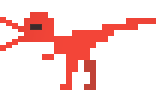
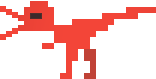
Obstacles changed

diff --git a/RaptorRace/RaptorRace/MovingObstacle.m b/RaptorRace/RaptorRace/MovingObstacle.m
@@ -8,21 +8,24 @@
 
 #import "MovingObstacle.h"
 
-@implementation MovingObstacle
+@implementation MovingObstacle{
+    NSArray *objectAnimatedFrames;
+}
 
-- (void) setPhysicsAbilitiesOfObstacle
-{
+- (void)setPhysicsAbilitiesOfObstacle{
+    [NSException raise:NSInternalInconsistencyException
+                format:@"You must override %@ in a subclass", NSStringFromSelector(_cmd)];
 }
 
 - (SKTexture *) getTexture
 {
-    return NULL;
+    return [self createAnimationTextureWithAtlasNamed:[self getAtlasName] AndPictureNameFormat:[self getPictureNameFormat]];
 }
 
 - (SKTexture *) createAnimationTextureWithAtlasNamed:(NSString *)name
                                 AndPictureNameFormat:(NSString *)format
 {
-    NSArray *obstacleMovingFrames;
+    //NSArray *obstacleMovingFrames;
     NSMutableArray *movingFrames = [NSMutableArray array];
     SKTextureAtlas *obstacleAnimatedAtlas = [SKTextureAtlas atlasNamed:name];
     
@@ -32,22 +35,20 @@
         SKTexture *temp = [obstacleAnimatedAtlas textureNamed:textureName];
         [movingFrames addObject:temp];
     }
-    
-    obstacleMovingFrames = movingFrames;
-    SKTexture *temp = obstacleMovingFrames[0];
-    
+    objectAnimatedFrames= movingFrames;
+    SKTexture *temp = objectAnimatedFrames[0];
     return temp;
 }
 
 
 - (void) animateObstacle
 {
-//    [obstacle runAction:[SKAction repeatActionForever:
-//                       [SKAction animateWithTextures:raptorRunningFrames
-//                                        timePerFrame:0.1f
-//                                              resize:NO
-//                                             restore:YES]] withKey:@"runningInPlaceRaptor"];
-//    return;
+    NSLog(@"animates frames");
+    [[super obstacle] runAction:[SKAction repeatActionForever:
+                       [SKAction animateWithTextures:objectAnimatedFrames
+                                        timePerFrame:0.1f
+                                              resize:NO
+                                             restore:YES]] withKey:@"runningInPlaceObstacleRaptor"];
 }
 
 - (SKAction *) makeMovementAction
@@ -58,6 +59,7 @@
 // Has to be implemented by sub-class, or it wil raise exception.
 - (NSString *) getAtlasName
 {
+        NSLog(@"in here");
     [NSException raise:NSInternalInconsistencyException
                 format:@"You must override %@ in a subclass", NSStringFromSelector(_cmd)];
     return NULL;
@@ -66,6 +68,7 @@
 // Has to be implemented by sub-class, or it wil raise exception.
 - (NSString* ) getPictureNameFormat
 {
+        NSLog(@"in here pnf");
     [NSException raise:NSInternalInconsistencyException
                 format:@"You must override %@ in a subclass", NSStringFromSelector(_cmd)];
     return NULL;

diff --git a/RaptorRace/RaptorRace/AnyObstacle.m b/RaptorRace/RaptorRace/AnyObstacle.m
@@ -7,19 +7,19 @@
 //
 
 #import "AnyObstacle.h"
+#import "Categories.h"
 
-@implementation AnyObstacle{
-    
-}
-SKSpriteNode * obstacle;
-CGFloat height;
-
-
+@implementation AnyObstacle
+@synthesize obstacle = obstacle;
+@synthesize height = height;
 -(id)init
 {
     if (self = [super init])
     {
         [self makeObstacle];
+        obstacle.name = @"obs";
+        self.nodeHeight = self.getTexture.size.height;
+        [self addChild:obstacle];
         NSLog(@"Obstacle(s) initialized");
     }
     
@@ -27,8 +27,15 @@ CGFloat height;
 }
 
 - (id) initWithGroundHeight:(CGFloat)groundHeight{
-    self = [self init];
-    height = groundHeight;
+    if (self = [super init])
+    {
+        self.height = groundHeight;
+        self.nodeHeight = self.getTexture.size.height;
+        [self makeObstacle];
+        [self addChild:obstacle];
+        
+    }
+    
     return self;
 }
 
@@ -62,15 +69,16 @@ CGFloat height;
 
 - (void) setPhysicsAbilitiesOfObstacle
 {
-    //    [NSException raise:NSInternalInconsistencyException
-    //                format:@"You must override %@ in a subclass", NSStringFromSelector(_cmd)];
+        [NSException raise:NSInternalInconsistencyException
+                    format:@"You must override %@ in a subclass", NSStringFromSelector(_cmd)];
+    
 
 }
 
 - (SKTexture *)getTexture
 {
-    //    [NSException raise:NSInternalInconsistencyException
-    //                format:@"You must override %@ in a subclass", NSStringFromSelector(_cmd)];
+        [NSException raise:NSInternalInconsistencyException
+                    format:@"You must override %@ in a subclass", NSStringFromSelector(_cmd)];
     return NULL;
 }
 

diff --git a/RaptorRace/RaptorRace/Obstacles.m b/RaptorRace/RaptorRace/Obstacles.m
@@ -34,9 +34,9 @@ NSMutableArray *obstacleList;
 
 -(SKSpriteNode*)makeDinosaur1 {
     SKSpriteNode* SKdinosaur1= [SKSpriteNode spriteNodeWithImageNamed:@"dinosaur1"];
-    SKdinosaur1.size=CGSizeMake(40, 40);
+    SKdinosaur1.size=CGSizeMake(60, 40);
     //_dinosaur1.position = CGPointMake(100, 100);
-    SKdinosaur1.physicsBody=[SKPhysicsBody bodyWithRectangleOfSize:CGSizeMake(100,100)];
+    SKdinosaur1.physicsBody=[SKPhysicsBody bodyWithRectangleOfSize:SKdinosaur1.size];
     //SKdinosaur1.position = CGPointMake(100, 100);
     SKdinosaur1.physicsBody.affectedByGravity=NO;
     SKdinosaur1.physicsBody.mass=1;
@@ -159,10 +159,10 @@ NSMutableArray *obstacleList;
         SKSpriteNode *obstacle = [dinosaurs objectAtIndex:rand()%1];
         [obstacle removeAllActions];
     
-        //float randDuration =[self randomValueBetween:3.0
+       // float randDuration =[self randomValueBetween:3.0
                                              //andValue:8.0];
         //CGFloat height = 97;
-        obstacle.position = CGPointMake(-self.frame.size.width+ 20, height);
+        obstacle.position = CGPointMake(500, height);
         obstacle.hidden = NO;
         CGPoint location = CGPointMake(1, height);
         SKAction *moveAction = [SKAction moveTo:location

diff --git a/RaptorRace/RaptorRace/AnyGameLevel.m b/RaptorRace/RaptorRace/AnyGameLevel.m
@@ -11,6 +11,7 @@
 #import "Categories.h"
 #import "AnyRaptor.h"
 #import "BRaptor.h"
+#import "RedRaptorObstacle.h"
 
 @implementation AnyGameLevel{
     // An array of frames used for the ground animation
@@ -19,6 +20,7 @@
     
     SKSpriteNode *ground;
     SKSpriteNode *background;
+    AnyObstacle *obstacle;
     AnyRaptor *raptor;
     
     ScoreSingleton * scoreLabel;
@@ -41,6 +43,10 @@
         [self addChild:ground];
         [self addChild:background];
         [self addChild:scoreLabel];
+        [self addChild:obstacle];
+
+        
+        
     }
     return self;
 }
@@ -72,6 +78,7 @@
     [self addScoreCounterWithColor:[self getScoreCounterColor]
                       AndFontNamed:[self getScoreCounterFontName]];
     [self addRaptor];
+    [self addObstacles];
 
     
 }
@@ -188,6 +195,10 @@
 
 - (void) addObstacles
 {
+    NSLog(@"%f",obstacle.nodeHeight);
+    obstacle = [[RedRaptorObstacle alloc] initWithGroundHeight:ground.texture.size.height];
+    NSLog(@" obstacle height %f", [obstacle childNodeWithName:@"obs"].frame.size.width);
+    [obstacle setPosition:CGPointMake(self.frame.size.width, ground.texture.size.height+obstacle.nodeHeight)];
     
 }
 

diff --git a/RaptorRace/RaptorRace/RedRaptorObstacle.m b/RaptorRace/RaptorRace/RedRaptorObstacle.m
@@ -1,0 +1,40 @@
+//
+//  RedRaptorObstacle.m
+//  RaptorRace
+//
+//  Created by Nemanja Aksic on 3/19/14.
+//  Copyright (c) 2014 iOne. All rights reserved.
+//
+
+#import "RedRaptorObstacle.h"
+#import "Categories.h"
+
+@implementation RedRaptorObstacle
+
+-(id) init{
+    self = [super init];
+    [super animateObstacle];
+    return self;
+}
+
+-(NSString *)getAtlasName{
+    NSLog(@"name");
+    return @"obstacleRaptor";
+}
+
+- (NSString *)getPictureNameFormat{
+    NSLog(@"nameFormat");
+    return @"obstacleRaptor%d";
+}
+
+- (void)setPhysicsAbilitiesOfObstacle{
+    NSLog(@"SETS PHysical abilities");
+    [super obstacle].physicsBody = [SKPhysicsBody bodyWithRectangleOfSize:[super obstacle].frame.size];
+    [super obstacle].physicsBody.allowsRotation = NO;
+    [super obstacle].physicsBody.restitution = 0.0;
+    [super obstacle].physicsBody.dynamic = NO;
+    [super obstacle].physicsBody.categoryBitMask = obstacleCategory;
+    [super obstacle].physicsBody.collisionBitMask = dinoCategory;
+    [super obstacle].physicsBody.contactTestBitMask = dinoCategory;
+}
+@end

diff --git a/RaptorRace/RaptorRace/GameScene.m b/RaptorRace/RaptorRace/GameScene.m
@@ -14,6 +14,7 @@
 #import "ScoreSingleton.h"
 #import "Pause.h"
 #import "GameOverScene.h"
+#import "RedRaptorObstacle.h"
 
 
 @implementation GameScene {
@@ -160,10 +161,13 @@
             [moving addChild:sprite];
         }
         
-        self.obs = [[Obstacles alloc]init];
+        /*self.obs = [[Obstacles alloc]init];
         [self addChild:self.obs];
-        [self.obs addObstacles];
+        [self.obs addObstacles];*/
         
+        
+        self.obs = [[RedRaptorObstacle alloc] init];
+        [self addChild:self.obs];
     }
     
     return self;
@@ -202,7 +206,7 @@
         _displayedScore = [[ScoreSingleton getInstance] getScore];
     }
     //Trying to do da spawning
-    [self.obs spawnObstacle:groundHeight];
+    //[self.obs spawnObstacle:groundHeight];
     
     //Raptor allowed to jump?
     [raptor updateAllowedToJump];

diff --git a/RaptorRace/RaptorRace/MovingObstacle.h b/RaptorRace/RaptorRace/MovingObstacle.h
@@ -28,5 +28,20 @@
  */
 - (SKAction *) makeMovementAction;
 
+/**
+ Gets the name of the atlas that should be used for the animation of the sprite.
+ 
+ @return Retruns a string with the name of the atlas that should be used for animation.
+ */
+- (NSString *) getAtlasName;
+
+/**
+ Gets the formate of the names of the pictures in the atlas.
+ 
+ @return Returns the name format of the pictures in the atas.
+ */
+- (NSString* ) getPictureNameFormat;
+
+- (void) animateObstacle;
 
 @end

diff --git a/RaptorRace/RaptorRace/GameScene.h b/RaptorRace/RaptorRace/GameScene.h
@@ -7,10 +7,10 @@
 //
 
 #import <SpriteKit/SpriteKit.h>
-#import "Obstacles.h"
+#import "AnyObstacle.h"
 
 @interface GameScene : SKScene <SKPhysicsContactDelegate> 
 @property(nonatomic,readonly) SKLabelNode *scoreLabel;
 //@property(nonatomic) CGFloat score;
-@property (nonatomic) Obstacles* obs;
+@property (nonatomic) AnyObstacle* obs;
 @end

diff --git a/RaptorRace/RaptorRace/AnyObstacle.h b/RaptorRace/RaptorRace/AnyObstacle.h
@@ -9,6 +9,10 @@
 #import <SpriteKit/SpriteKit.h>
 
 @interface AnyObstacle : SKSpriteNode
+
+@property SKSpriteNode * obstacle;
+@property CGFloat height;
+@property CGFloat nodeHeight;
 /**
  Initiate obstacle with the height of ground level
  **/

diff --git a/RaptorRace/RaptorRace/RedRaptorObstacle.h b/RaptorRace/RaptorRace/RedRaptorObstacle.h
@@ -1,0 +1,13 @@
+//
+//  RedRaptorObstacle.h
+//  RaptorRace
+//
+//  Created by Nemanja Aksic on 3/19/14.
+//  Copyright (c) 2014 iOne. All rights reserved.
+//
+
+#import "MovingObstacle.h"
+
+@interface RedRaptorObstacle : MovingObstacle
+
+@end
